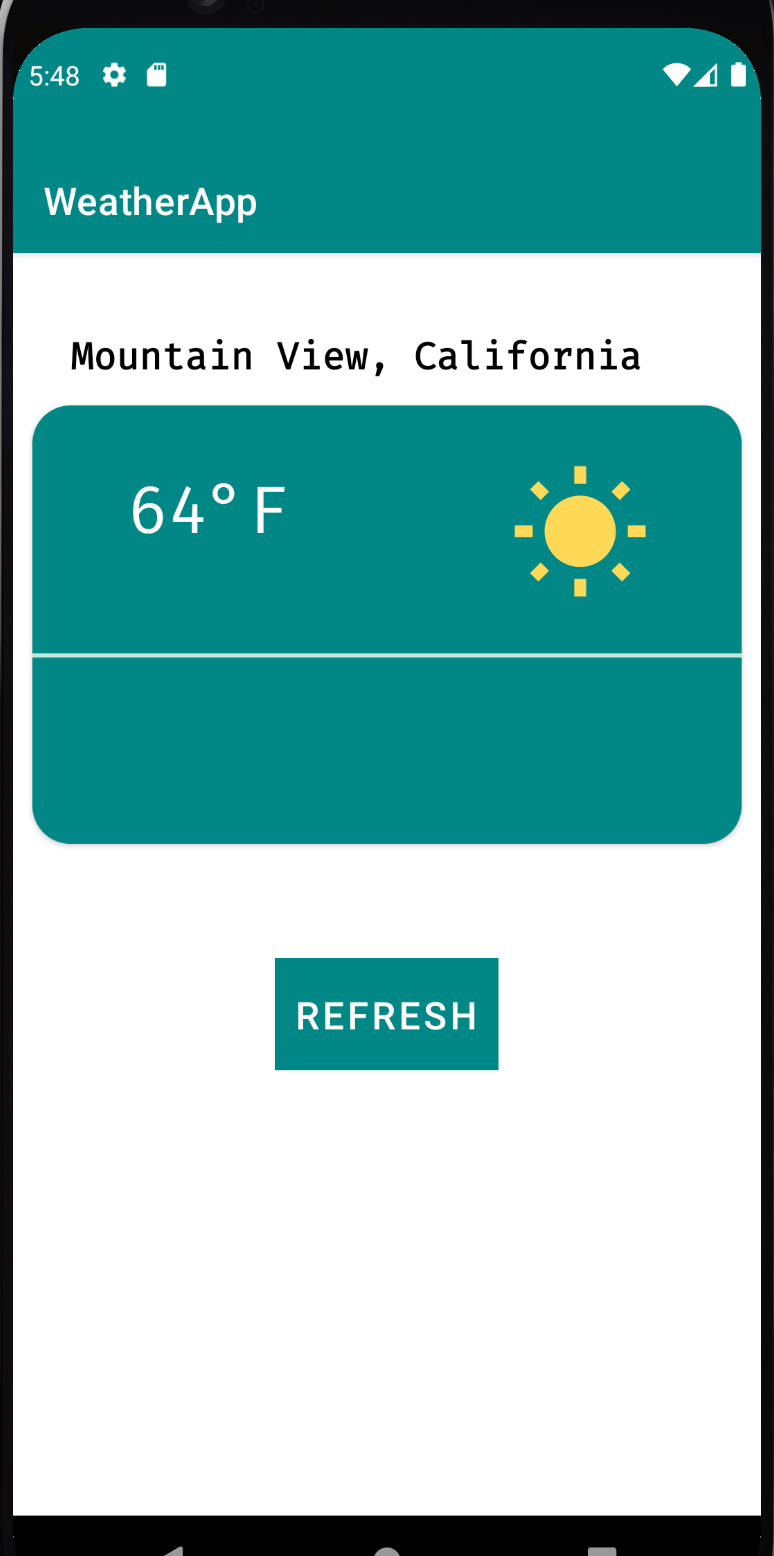
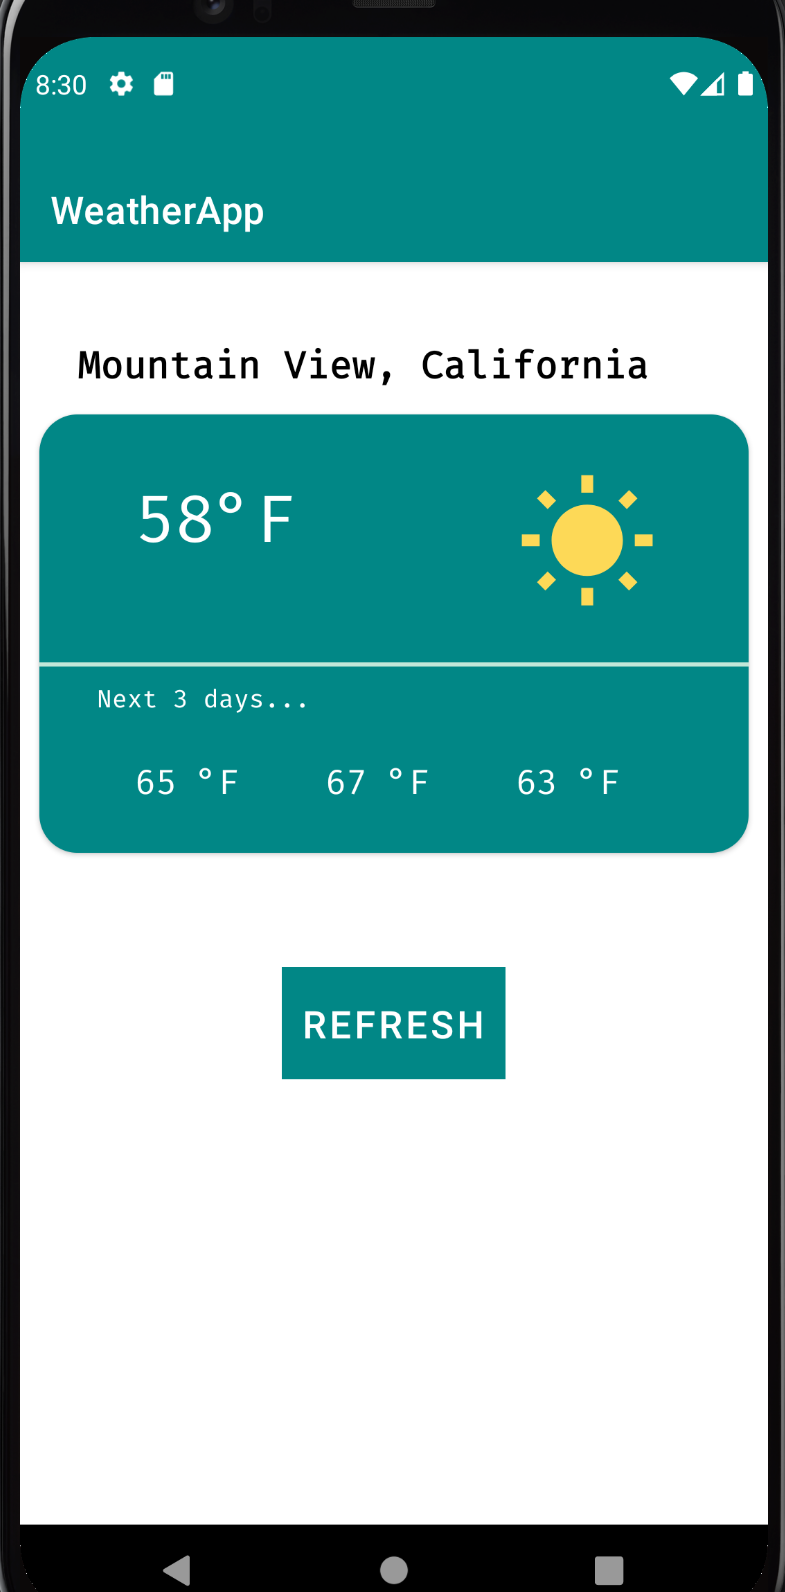
added three day forecast

diff --git a/app/src/main/java/com/example/weatherapp/MainActivity.java b/app/src/main/java/com/example/weatherapp/MainActivity.java
@@ -46,7 +46,7 @@ public class MainActivity extends AppCompatActivity {
     // openweathermap api key
     public static final String TAG = "Main";
 
-    TextView location, temp;
+    TextView location, temp, dayOneMax, dayTwoMax, dayThreeMax, nextThreeDaysTitle;
     ImageView sunny, cloudy, rainy, thunderstorm, snow;
     Button button;
 
@@ -57,6 +57,11 @@ public class MainActivity extends AppCompatActivity {
         // text fields
         location = findViewById(R.id.location);
         temp = findViewById(R.id.temp);
+        // daily weather forecast
+        nextThreeDaysTitle = findViewById(R.id.nextThreeDaysTitle);
+        dayOneMax = findViewById(R.id.dayOneMax);
+        dayTwoMax = findViewById(R.id.dayTwoMax);
+        dayThreeMax = findViewById(R.id.dayThreeMax);
         // icons
         sunny = findViewById(R.id.sunny);
         cloudy = findViewById(R.id.cloudy);
@@ -81,7 +86,7 @@ public class MainActivity extends AppCompatActivity {
                        e.printStackTrace();
                 }
 
-                // uses secrets gradle plugin to store api_key in local.properties which is not uploaded to github to key api_key private
+                // uses secrets gradle plugin to store api_key in local.properties which is not uploaded to github to keep api_key private
                 api_url = "https://api.openweathermap.org/data/2.5/weather?q=" + city + "&units=imperial&appid=" + BuildConfig.Api_key;
                 api_url_daily_forecast = "https://api.openweathermap.org/data/2.5/onecall?lat=" + latitude + "&lon=" + longitude + "&units=imperial&exclude=hourly,minutely&appid=" + BuildConfig.Api_key;
                 Log.d(TAG,api_url);
@@ -127,6 +132,10 @@ public class MainActivity extends AppCompatActivity {
                     int dayThreeTempMax = (int) dayThree.getJSONObject("temp").getDouble("max");
                     System.out.println("Max Temps for next 3 days: " + dayOneTempMax + " " + dayTwoTempMax + " " + dayThreeTempMax);
                     // TODO: add to display
+                    dayOneMax.setText(dayOneTempMax + " °F");
+                    dayTwoMax.setText(dayTwoTempMax + " °F" );
+                    dayThreeMax.setText(dayThreeTempMax + " °F");
+
 
                 } catch (JSONException e) {
                     e.printStackTrace();
@@ -190,6 +199,11 @@ public class MainActivity extends AppCompatActivity {
         queue.add(stringRequest);
     }
 
+    /**
+     * Convert from kelvin to fahrenheit
+     * @param kelvin temperature
+     * @return temperature in fahrenheit
+     */
     public int convertToF(double kelvin){
         return (int) (tempF = (int) ((9.0/5.0)*(kelvin-273.15)+32));
     }
